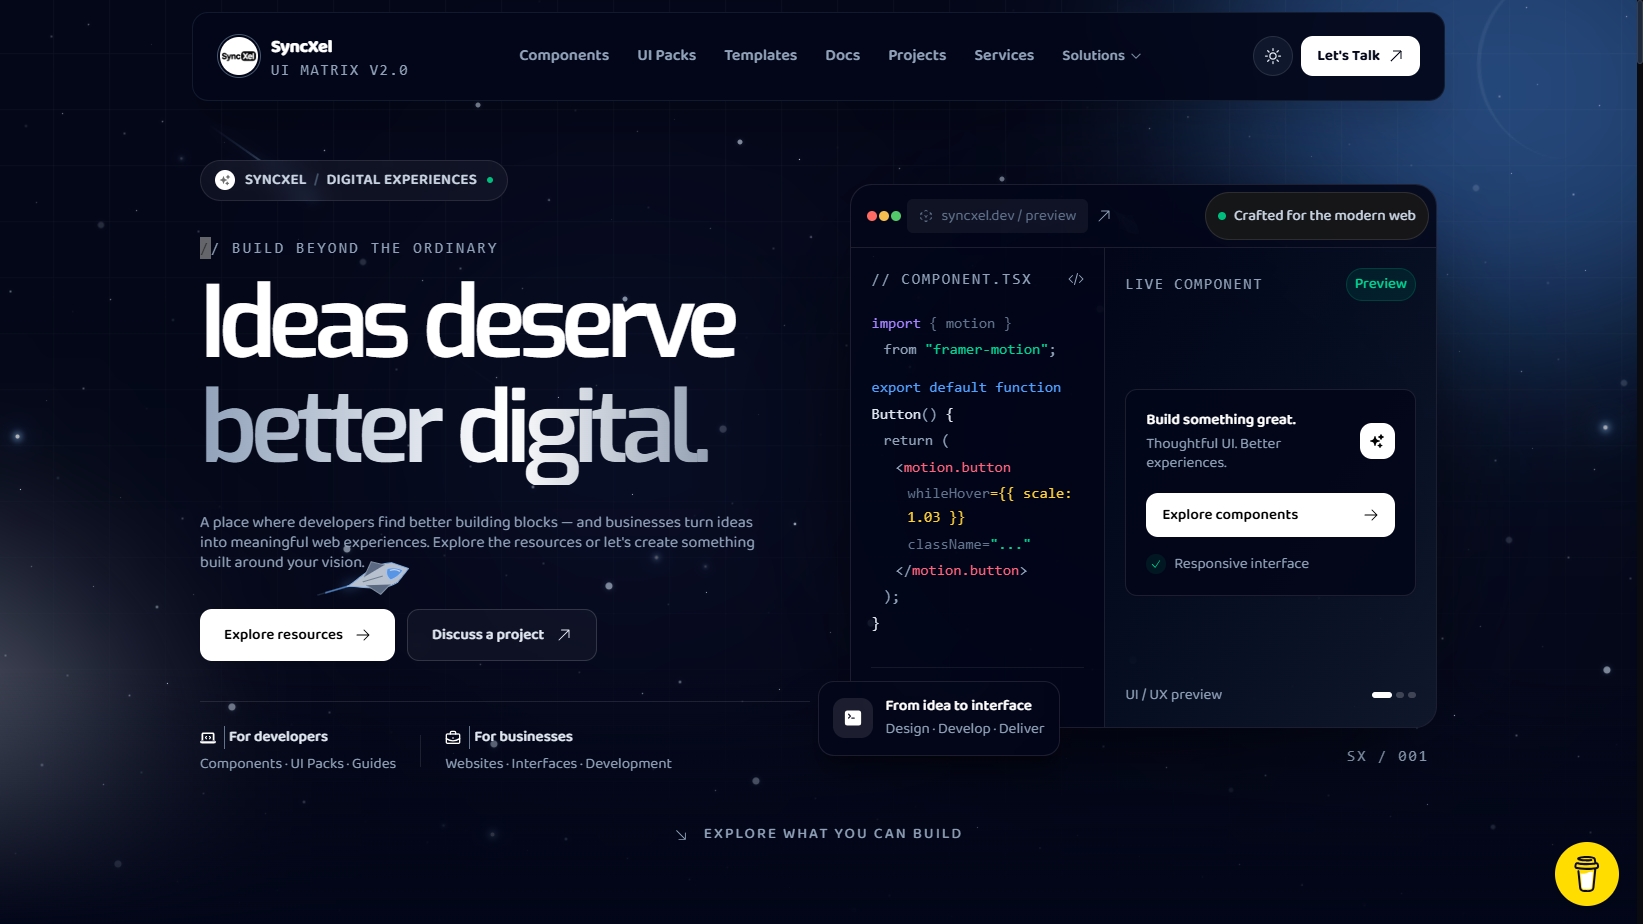
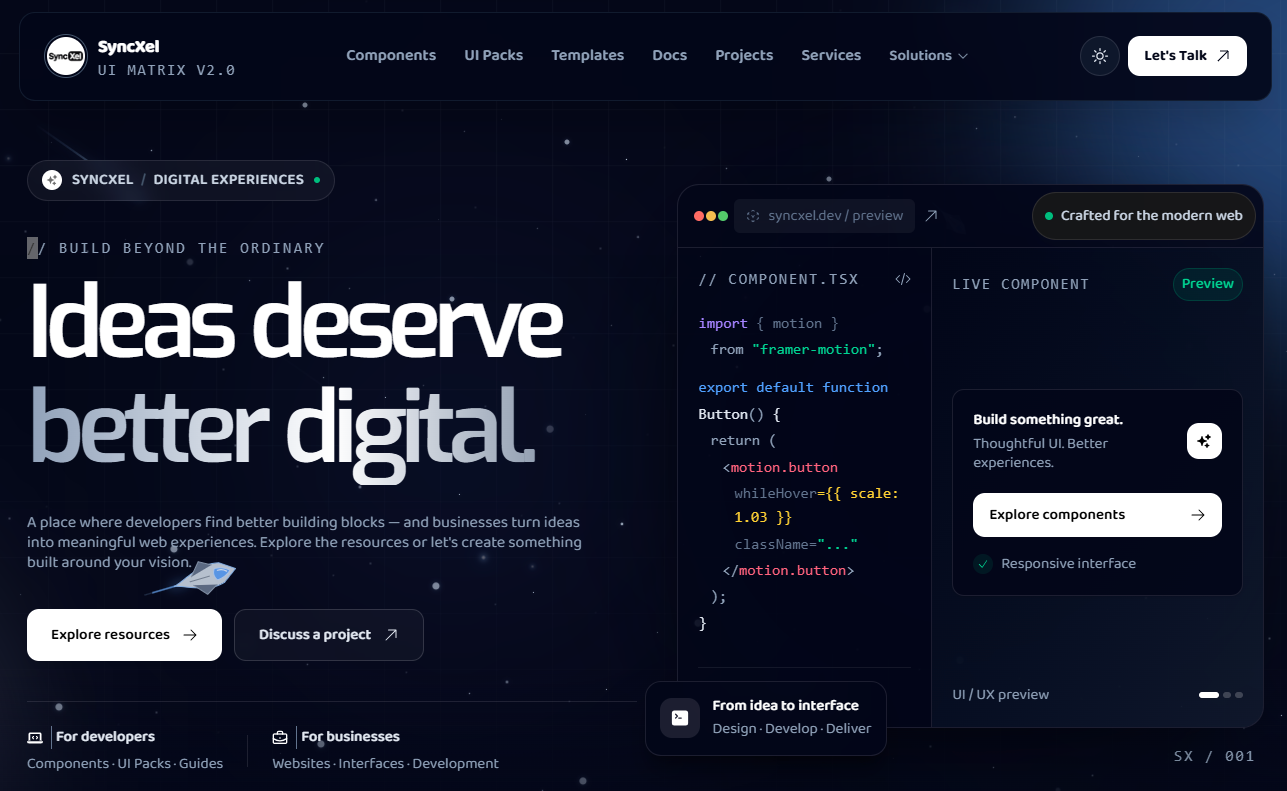
feat: update meta tags for improved SEO and clarity; add new Open Graph image

diff --git a/index.html b/index.html
@@ -29,19 +29,19 @@
     </script>
 
     <!-- Primary Meta Tags -->
-    <title>SyncXel - Premium UI Components, UI Packs & Website Templates</title>
+    <!-- <title>SyncXel - Premium UI Components, UI Packs & Website Templates</title> -->
+
+    <title>SyncXel | Premium UI Components & Templates</title>
 
     <meta
       name="google-site-verification"
       content="cB_NAKl3TB8rJeEJp6cOTYdlb_D7JkbYmIPCU1EmErs" />
 
-    <meta
-      name="title"
-      content="SyncXel - Premium UI Components, UI Packs & Website Templates" />
+    <meta name="title" content="SyncXel - Premium UI Components, Templates" />
 
     <meta
       name="description"
-      content="Explore SyncXel's collection of free UI components, premium React and Tailwind CSS UI packs, and ready-to-use website templates. Build modern websites faster with production-ready designs." />
+      content="Explore free React UI components, premium UI packs and modern website templates. Find responsive designs and tools to build better web experiences with SyncXel." />
 
     <meta
       name="keywords"
@@ -65,11 +65,11 @@
 
     <meta
       property="og:title"
-      content="SyncXel - Premium UI Components, UI Packs & Website Templates" />
+      content="SyncXel | Premium UI Components & Templates" />
 
     <meta
       property="og:description"
-      content="Discover free UI components, premium UI packs, and modern website templates designed to help you build better web experiences." />
+      content="Explore free React UI components, premium UI packs and modern website templates. Build better web experiences with SyncXel." />
 
     <meta
       property="og:image"
@@ -85,11 +85,11 @@
 
     <meta
       name="twitter:title"
-      content="SyncXel - Premium UI Components, UI Packs & Website Templates" />
+      content="SyncXel | Premium UI Components & Templates" />
 
     <meta
       name="twitter:description"
-      content="Explore free UI components, premium React UI packs, and modern website templates with SyncXel." />
+      content="Explore free React UI components, premium UI packs and modern website templates with SyncXel." />
 
     <meta
       name="twitter:image"
